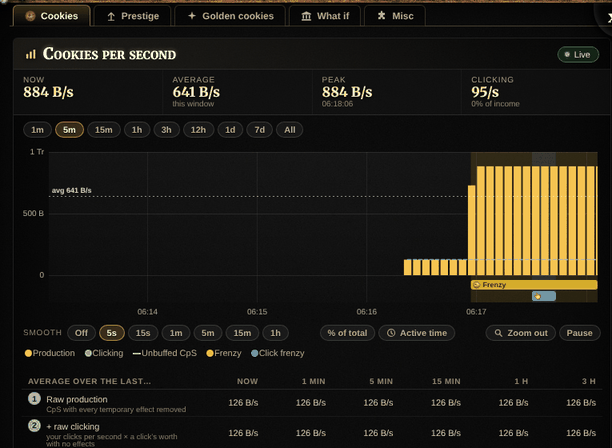
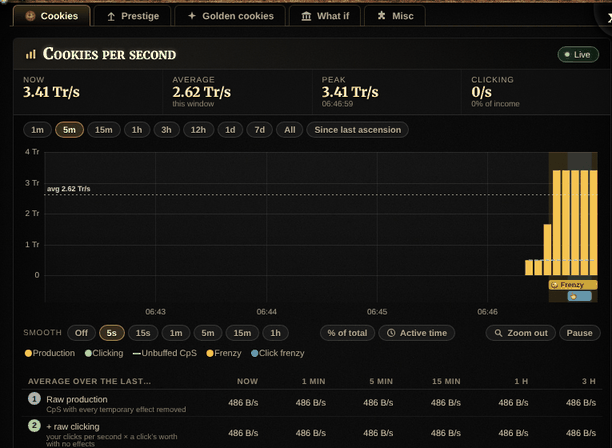
README: Since last ascension and the Income statistic in the Stats and Statistics shots (#78)
Retook Stats and Statistics screenshots; Stats bullet mentions ascension lines and the Since last ascension window.

Claude-Session: https://claude.ai/code/session_01ALSqfrVYPdvMWWjAoC9JVy

diff --git a/README.md b/README.md
@@ -77,7 +77,7 @@ the page. [See every page with a screenshot](#pages).
 <td width="50%" valign="top">
 <b>Stats</b><br>
 <img src="docs/readme/stats.png" alt="The Stats page" width="100%">
-<ul><li>Cookies per second, where every cookie came from, your bank and prestige, charted and kept between sessions</li><li>Zoom and look back; Frenzy and other effects shaded behind the chart</li><li>Your income outside CpS, by source</li><li>Golden cookie odds, Lucky! banks, what-ifs for spirits and auras, what's left to collect</li></ul>
+<ul><li>Cookies per second, where every cookie came from, your bank and prestige, charted and kept between sessions</li><li>Zoom and look back, or since your last ascension (ascensions are marked on every chart); Frenzy and other effects shaded behind it</li><li>Your income outside CpS, by source</li><li>Golden cookie odds, Lucky! banks, what-ifs for spirits and auras, what's left to collect</li></ul>
 </td>
 </tr>
 <tr>
